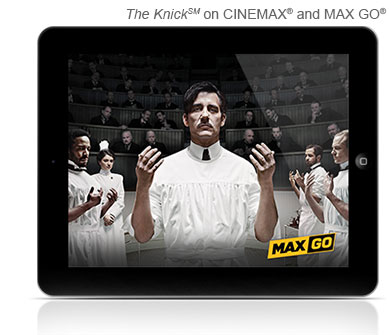
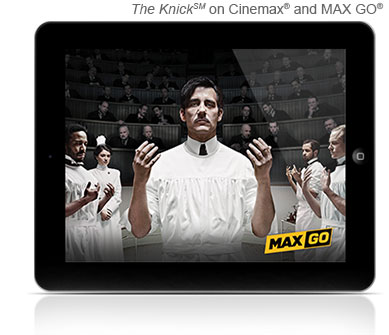
copy changes

Changed region(s): [[0.0617, 0.0, 1.0, 0.9254], [0.1542, 0.2388, 0.1851, 0.2985], [0.1542, 0.1493, 0.1851, 0.209]]

diff --git a/prism/existing/index.html b/prism/existing/index.html
@@ -159,7 +159,7 @@
 
 			function paginate (ind, el) {
 				if (ind == 0) return '<a href="#" data-clicktrack="ctl|rsd|shop|iptv_retention|pre_id_learn|hbo_tab" class="trackMe"><li id="tab1">HBO<sup class="special-sup">&reg;</sup></li></a>';
-				else if (ind == 1) return '<a href="#" data-clicktrack="ctl|rsd|shop|iptv_retention|pre_id_learn|cinemaxhbo_tab" class="trackMe"><li id="tab2">CINEMAX<sup class="special-sup">&reg;</sup></li></a>';
+				else if (ind == 1) return '<a href="#" data-clicktrack="ctl|rsd|shop|iptv_retention|pre_id_learn|cinemaxhbo_tab" class="trackMe"><li id="tab2">Cinemax<sup class="special-sup">&reg;</sup></li></a>';
 				else if (ind == 2) return '<a href="#" data-clicktrack="ctl|rsd|shop|iptv_retention|pre_id_learn|showtimehbo_tab" class="trackMe"><li id="tab3">SHOWTIME<sup class="special-sup">&reg;</sup></li></a>';
 				else if (ind == 3) return '<a href="#" data-clicktrack="ctl|rsd|shop|iptv_retention|pre_id_learn|starzhbo_tab" class="trackMe"><li id="tab4">STARZ<sup class="special-sup">&reg;</sup></li></a>';
 				return "";
@@ -820,23 +820,23 @@
 			<div class="child hbo">
 				<div class="childWrap">
 					<h2>It's HBO<sup class="special-sup">&reg;</sup>.</h2>
-					<h3>Includes 14 HBO<sup class="special-sup">&reg;</sup> channels, HBO On Demand<sup class="special-sup">&reg;</sup>, and HBO GO<sup class="special-sup">&reg;</sup>.**</h3>
+					<h3>Includes 14 HBO<sup class="special-sup">&reg;</sup> channels***, HBO On Demand<sup class="special-sup">&reg;</sup> and HBO GO<sup class="special-sup">&reg;</sup>.**</h3>
 					<div class="price sixteen99-tfn">Add for just $16.99 a month* Call 855-435-4173 to order.</div>
 					<a href="#ZAM" class="modal-trigger close-color-box" id="prism-hbo-trigger" clicktrack="ctl|rsd|shop|iptv_retention|pre_id_learn|hbo|button|chat">Chat to Order</a>
 					<p class="blurb">HBO<sup class="special-sup">&reg;</sup> gives you hit original series, Hollywood blockbusters, sports and so much more. Watch the most talked about HBO shows whenever you want with HBO On Demand<sup class="special-sup">&reg;</sup>. Plus, with HBO GO<sup class="special-sup">&reg;</sup>, get instant access to every episode of every season of the best HBO<sup class="special-sup">&reg;</sup> shows. So go ahead, make your own schedule. And be sure to catch hit films like <em>The Hobbit: The Desolation of Smaug</em> and <em>12 Years a Slave</em>, and the new HBO<sup class="special-sup">&reg;</sup> original series <em>Last Week Tonight with John Oliver</em>.</p>
-					<p class="disclaimer-left">*FREE with an HBO<sup class="special-sup">&reg;</sup> subscription from CenturyLink.<br><br>**All 14 channels available in HD. Subscription to HD service required to view HD programming. HD availability varies by area.</p>
+					<p class="disclaimer-left">**Free with an HBO<sup class="special-sup">&reg;</sup> subscription from CenturyLink.<br><br>***All 14 channels available in HD. Subscription to HD service required to view HD programming. HD availability varies by area.</p>
 				</div>
-				<p class="disclaimer floatingDisclaimer">HBO<sup class="special-sup">&reg;</sup>, Cinemax<sup class="special-sup">&reg;</sup> and related channels and service<br>marks are the property of Home Box Office, Inc.<br>Boardwalk Empire &copy; 2014 Home Box Office, Inc. All Rights Reserved.</p>
+				<p class="disclaimer floatingDisclaimer">HBO<sup class="special-sup">&reg;</sup>, Cinemax<sup class="special-sup">&reg;</sup> and related channels and service<br>marks are the property of Home Box Office, Inc.<br>Boardwalk Empire &copy;2014 Home Box Office, Inc. All Rights Reserved.</p>
 			</div>
 
 			<div class="child cinemax">
 				<div class="childWrap">
 					<h2>Take your entertainment to the MAX.</h2>
-					<h3>Enjoy all 12 Cinemax<sup class="special-sup">&reg;</sup> channels, Cinemax On Demand, and MAX GO<sup class="special-sup">&reg;</sup>.*</h3>
+					<h3>Enjoy all 12 Cinemax<sup class="special-sup">&reg;</sup> channels***, Cinemax On Demand and MAX GO<sup class="special-sup">&reg;</sup>.**</h3>
 					<div class="price fifteen49-alt2">Add for just $15.49 a month* Call 855-435-4173 to order.</div>
 					<a href="#ZAM" class="modal-trigger close-color-box" id="prism-max-trigger" clicktrack="ctl|rsd|shop|iptv_retention|pre_id_learn|cinemax|button|chat">Chat to Order</a>
-					<p class="blurb">With Cinemax<sup class="special-sup">&reg;</sup> you get the best Hollywood hits, action-packed original series and behind-the-scenes exclusives &ndash; all in True HD.** From exclusive premieres on the flagship station to first-rate programming on 7 additional genre-focused multiplex channels, Cinemax<sup class="special-sup">&reg;</sup> delivers more of the entertainment you deserve, including hit movies like <em>The Wolverine</em> and <em>We're the Millers</em>.</p>
-					<p class="disclaimer-left">*Free with a Cinemax<sup class="special-sup">&reg;</sup> subscription from CenturyLink.<br><br>**12 channels available in HD. Subscription to HD service required to view HD programming. HD availability varies by area.</p>
+					<p class="blurb">With Cinemax<sup class="special-sup">&reg;</sup> you get the best Hollywood hits, action-packed original series and behind-the-scenes exclusives &ndash; all in True HD.*** From exclusive premieres on the flagship station to first-rate programming on 7 additional genre-focused multiplex channels, Cinemax<sup class="special-sup">&reg;</sup> delivers more of the entertainment you deserve, including hit movies like <em>The Wolverine</em> and <em>We're the Millers</em>.</p>
+					<p class="disclaimer-left">**Free with a Cinemax<sup class="special-sup">&reg;</sup> subscription from CenturyLink.<br><br>***12 channels available in HD. Subscription to HD service required to view HD programming. HD availability varies by area.</p>
 				</div>
 				<p class="disclaimer floatingDisclaimer">HBO<sup class="special-sup">&reg;</sup>, Cinemax<sup class="special-sup">&reg;</sup> and related channels and service marks are the property of<br>Home Box Office, Inc. Fast &amp; Furious 6 &copy; 2013 Universal Studios.<br>All Rights Reserved.</p>
 			</div>
@@ -844,10 +844,10 @@
 			<div class="child showtime">
 				<div class="childWrap">
 					<h2>Great entertainment starts with SHOWTIME<sup class="special-sup">&reg;</sup>.</h2>
-					<h3>Get 21 SHOWTIME<sup class="special-sup">&reg;</sup> channels**, SHOWTIME ANYTIME<sup class="special-sup">&reg;</sup>, and SHOWTIME ON DEMAND<sup class="special-sup">&reg;</sup>.</h3>
+					<h3>Get 21 SHOWTIME<sup class="special-sup">&reg;</sup> channels**, SHOWTIME ANYTIME<sup class="special-sup">&reg;</sup> and SHOWTIME ON DEMAND<sup class="special-sup">&reg;</sup>.</h3>
 					<div class="price fifteen49-alt2">Add for just $15.49 a month* Call 855-435-4173 to order.</div>
 					<a href="#ZAM" class="modal-trigger close-color-box" id="prism-sho-trigger" clicktrack="ctl|rsd|shop|iptv_retention|pre_id_learn|showtime|button|chat">Chat to Order</a>
-					<p class="blurb">If you want edge-of-your-seat entertainment, then you want SHOWTIME. Order now and catch critically acclaimed series like <em>Jim Rome</em> on SHOWTIME<sup class="special-sup">&reg;</sup>  and <em>7 Deadly Sins</em>. And for heart-pounding excitement, tune in for great movies like <em>Fruitvale Station</em>.</p>
+					<p class="blurb">If you want edge-of-your-seat entertainment, then you want SHOWTIME. Order now and catch critically acclaimed series like <em>Jim Rome on SHOWTIME<sup class="special-sup">&reg;</sup></em>  and <em>7 Deadly Sins</em>. And for heart-pounding excitement, tune in for great movies like <em>Fruitvale Station</em>.</p>
 					<p style="font-size:80%;color:#999999;padding-top:10px;line-height:12px;">**18 channels available in HD. Subscription to HD service required to view HD programming. HD availability varies by area.</p>
 				</div>
 				<p class="disclaimer floatingDisclaimer">SHOWTIME and related marks are registered trademarks of Showtime Networks<br> Inc., a CBS Company. You must be a subscriber of SHOWTIME to receive<br> SHOWTIME ON DEMAND. Ray Donovan &copy; Showtime Networks Inc. <br>All rights reserved.</p>
@@ -856,7 +856,7 @@
 			<div class="child starz">
 				<div class="childWrap">
 					<h2>Get ready to see STARZ<sup class="special-sup">&reg;</sup>.<br>And more.</h2>
-					<h3>Get all 30 STARZ<sup class="special-sup">&reg;</sup> channels**,<br />STARZ Play<sup class="special-sup">&reg;</sup>, and STARZ<sup class="special-sup">&reg;</sup> On Demand.</h3>
+					<h3>Get all 30 STARZ<sup class="special-sup">&reg;</sup> channels**,<br />STARZ Play<sup class="special-sup">&reg;</sup> and STARZ<sup class="special-sup">&reg;</sup> On Demand.</h3>
 					<div class="price fifteen49-alt2">Add for just $15.49 a month* Call 855-435-4173 to order.</div>
 					<a href="#ZAM" class="modal-trigger close-color-box" id="prism-starz-trigger" clicktrack="ctl|rsd|shop|iptv_retention|pre_id_learn|starz|button|chat">Chat to Order</a>
 					<p class="blurb">Enjoy entertainment overdrive with the entire family. With STARZ, you can see the hottest original series and over 1,000 different movies a month, like <em>American Hustle</em> and <em>About Last Night</em>. Plus, your STARZ subscription includes ENCORE<sup class="special-sup">&reg;</sup> channels, featuring can't-miss classic movies and TV series. Best of all, STARZ and ENCORE On Demand give you instant access to great entertainment anytime &ndash; including movies the whole family will love, like <em>Saving Mr. Banks</em>.</p>
@@ -879,7 +879,7 @@
 				<div class="childWrap">
 					<h2>Prism On Demand is everything you love about the movies &ndash; and nothing you don&rsquo;t.</h2>
 					<h3>No long lines. No high-priced tickets.<br />No tall people sitting in front of you.</h3>
-					<p class="blurb">Watch what you want, when you want, with hundreds of hours of Prism On Demand programming. Access new DVD releases, FREE movie previews, karaoke, kids' programming and more. Check out hot new releases like <em>Divergent</em>, <em>Muppets Most Wanted</em>, and <em>Draft Day</em>.</p>
+					<p class="blurb">Watch what you want, when you want, with hundreds of hours of Prism On Demand programming. Access new DVD releases, free movie previews, karaoke, kids' programming and more. Check out hot new releases like <em>Divergent</em>, <em>Muppets Most Wanted</em>, and <em>Draft Day</em>.</p>
 					<div class="price onDemand">New releases start at just $4.99 each | Additional titles are as low as $2.99 each</div>
 					<h3 style="font-size:14px;"><strong style="color:#ff6319;font-size:18px">Start watching movies now.</strong><br>
 					Follow these 3 easy steps to order movies On Demand.</h3>
@@ -919,8 +919,8 @@
 			<div class="child max-go">
 				<div class="childWrap">
 					<h2>MAX GO<sup class="special-sup">&reg;</sup></h2>
-					<h3>It's CINEMAX<sup class="special-sup">&reg;</sup>. Anywhere.</h3>
-					<p class="blurb">With MAX GO<sup class="special-sup">&reg;</sup> get unlimited access to everything you love about Cinemax<sup class="special-sup">&reg;</sup> right on your laptop, iPad<sup class="special-sup">&reg;</sup>, iPhone<sup class="special-sup">&reg;</sup>, or Android.<sup class="special-sup">&trade;</sup> Watch hundreds of the biggest Hollywood hits, like We're the Millers, and catch every episode of the best Cinemax<sup class="special-sup">&reg;</sup> original series like <em>Strike Back</em><sup class="special-sup">&reg;</sup> and <em>Banshee</em> &ndash; anytime, anywhere.</p>
+					<h3>It's Cinemax<sup class="special-sup">&reg;</sup>. Anywhere.</h3>
+					<p class="blurb">With MAX GO<sup class="special-sup">&reg;</sup> get unlimited access to everything you love about Cinemax<sup class="special-sup">&reg;</sup> right on your laptop, iPad<sup class="special-sup">&reg;</sup>, iPhone<sup class="special-sup">&reg;</sup>, or Android.<sup class="special-sup">&trade;</sup> Watch hundreds of the biggest Hollywood hits, like <em>We're the Millers</em>, and catch every episode of the best Cinemax<sup class="special-sup">&reg;</sup> original series like <em>Strike Back</em><sup class="special-sup">&reg;</sup> and <em>Banshee</em> &ndash; anytime, anywhere.</p>
 					<p class="green-pp"><span>Add Cinemax<sup class="special-sup">&reg;</sup> for $15.49 a month. </span><br>MAX GO<sup class="special-sup">&reg;</sup> is free with your Cinemax<sup class="special-sup">&reg;</sup> subscription.</p>
 					<p class="orange-cta">
 						Call <strong>855-435-4173</strong><br><span class="or">or</span>
@@ -928,7 +928,7 @@
 					</p>
 					<p class="disclaimer-left">Separate channel package subscription charges will apply if not included in TV package selected. All other marks are property of their respective owners. MAX GO<sup class="special-sup">&reg;</sup> included with subscription to CINEMAX<sup class="special-sup">&reg;</sup>.</p>
 				</div>
-				<p class="disclaimer floatingDisclaimer">MAX GO<sup class="special-sup">&reg;</sup> is only accessible in the U.S. and certain U.S. Territories where a high<br> speed broadband connection is available. Minimum 3G connection is required for<br> viewing on mobile devices. Some restrictions may apply. Cinemax<sup class="special-sup">&reg;</sup> and related<br> channels and service marks are the property of Home Box Office, Inc.<br> The Knick<sup class="special-sup">SM</sup> &copy; 2014 Home Box Office, Inc. All Rights Reserved.</p>
+				<p class="disclaimer floatingDisclaimer">MAX GO<sup class="special-sup">&reg;</sup> is only accessible in the U.S. and certain U.S. Territories where a high<br> speed broadband connection is available. Minimum 3G connection is required for<br> viewing on mobile devices. Some restrictions may apply. Cinemax<sup class="special-sup">&reg;</sup> and related<br> channels and service marks are the property of Home Box Office, Inc.<br> The Knick &copy;2014 Home Box Office, Inc. All Rights Reserved.</p>
 			</div>
 
 			<div class="child showtime-anytime">
@@ -949,7 +949,7 @@
 			<div class="child starz-play">
 				<div class="childWrap">
 					<h2>STARZ<sup class="special-sup">&reg;</sup> Play</h2>
-					<h3>FREE with your STARZ<sup class="special-sup">&reg;</sup> subscription</h3>
+					<h3>FREE with your STARZ<sup class="special-sup">&reg;</sup> subscription.</h3>
 					<p class="blurb">Watch great entertainment whenever and wherever with STARZ Play, ENCORE Play and Movieplex Play. Have immediate access to over 2,000 titles at any time, with exclusive original series like <em>Outlander</em> and <em>Power</em>, or big movies like <em>American Hustle</em> and <em>Thor: The Dark World</em>.</p>
 					<p class="green-pp" style="margin-bottom:0px;">Add STARZ for $15.49 a month. </p>
 					<p class="orange-cta" style="margin-top:10px;">
